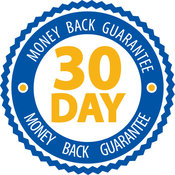
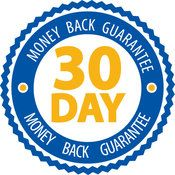
add large pic versions and relevant html

diff --git a/nextiva/css/style.css b/nextiva/css/style.css
@@ -224,6 +224,36 @@ a {
     min-height: 318px
   }
 
+  .offer-img.img-1, .offer-img.img-3 {
+    float: left;
+  }
+
+  .offer-img.img-2 {
+    float: right;
+  }
+
+  .offer-img.img-1, .offer-img.img-3 {
+    height: 215px;
+    width: 215px;
+  }
+
+  .offer-img.img-2 {
+    height: 300px;
+    width: 379px;
+  }
+
+  .img-1 {
+    background-image: url("../images/large/no-2nd-bill-lg.jpg")
+  }
+
+  .img-2 {
+    background-image: url("../images/large/select-polycom-phones-lg.png");
+  }
+
+  .img-3 {
+    background-image: url("../images/large/30-day-back-lg.jpg");
+  }
+
   .offer-odd img{
     float: left;
     height: 215px;
